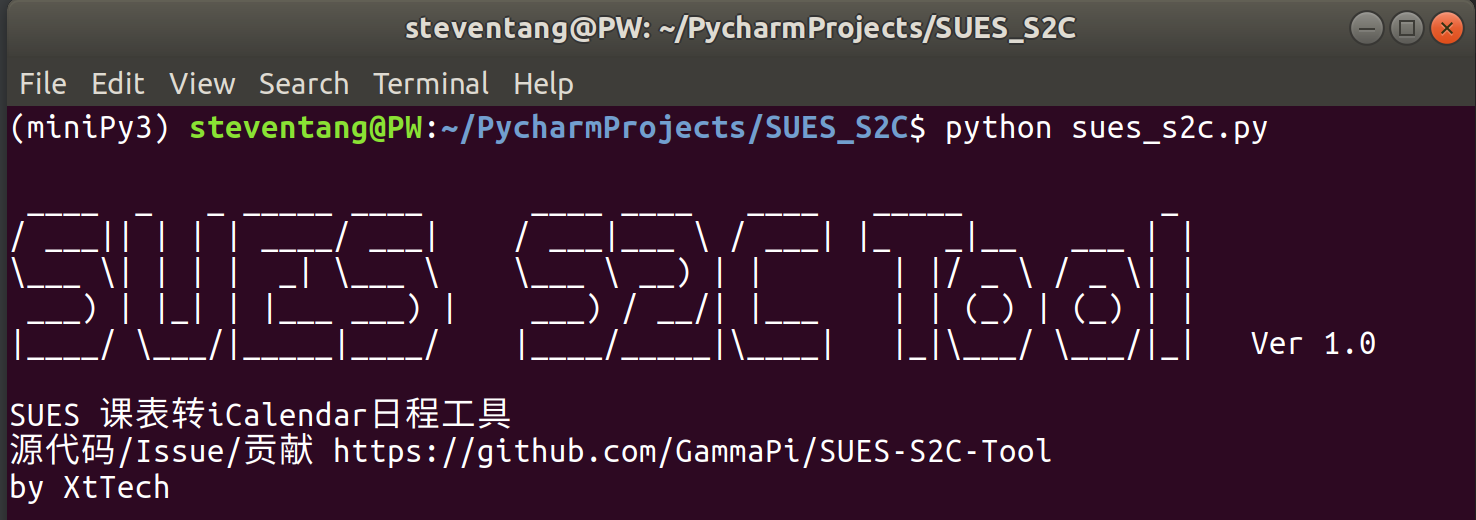
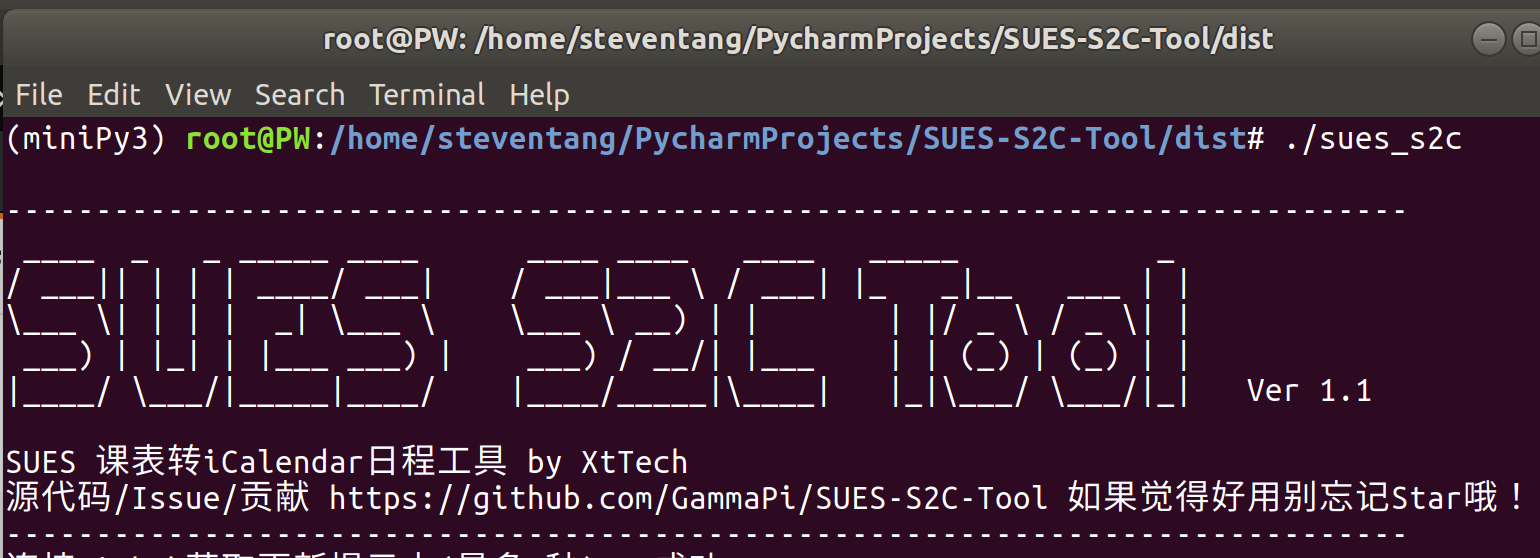
新特性说明

diff --git a/ReadMe.md b/ReadMe.md
@@ -18,7 +18,8 @@ SUES S2C Tool 开源、免费、开箱即用，是管理SUES课表的大杀器~
 ## 特性
 - 全自动获取课表
 - 支持所有学年、所有学期课表获取
-- D、E、F楼上课时间可自动修正
+- D、E、F楼上课时间可自动修正 （可选）
+- 跨休息时间的日程自动拆分
 - 转换为.ics文件后可在几乎全平台的设备上同步而无需预装任何软件
 - 转换为.ics文件并导入设备后能够精确查看课程时间，不再需要按周次推算。可以设置上课前数分钟在设备上弹出提醒
 - 开源、免费、开箱即用,无隐私担忧
